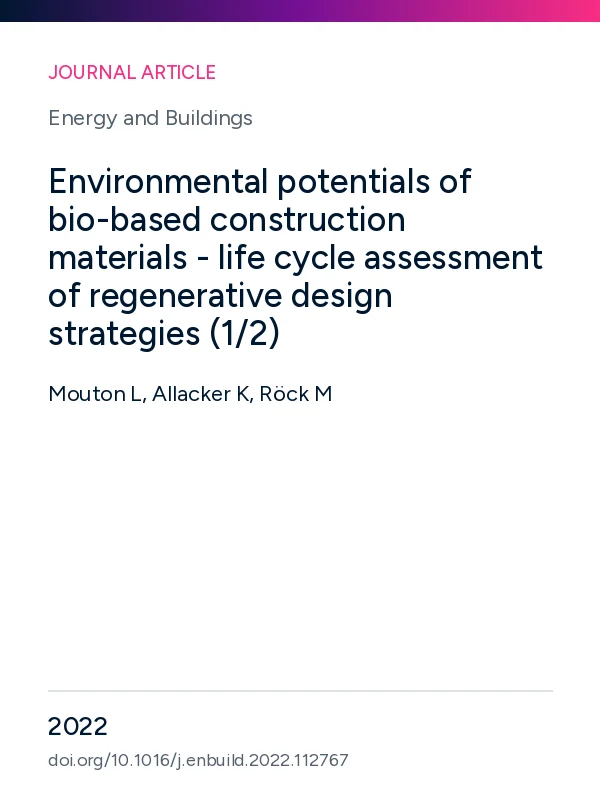
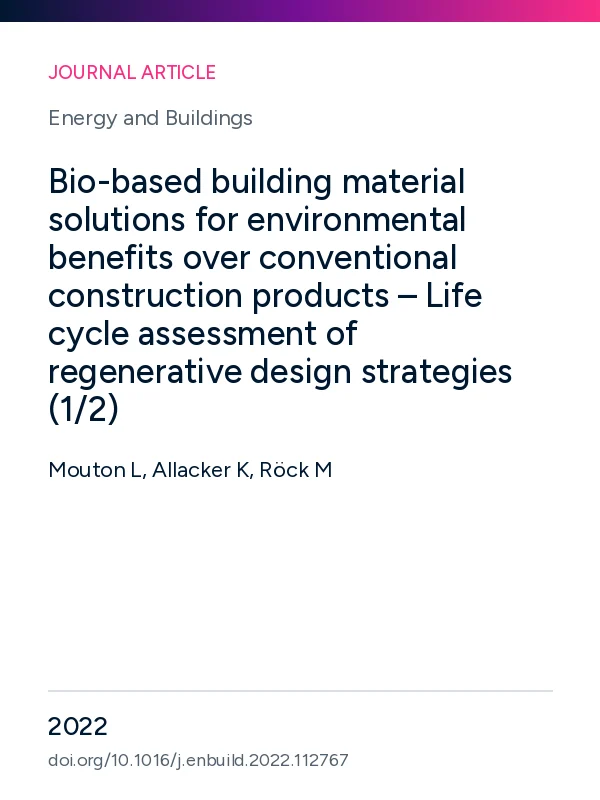
F1, F2, W5 and the publication projects
Four things from the 31 October order and the packs that came with it.

F1, the homepage evidence band. Four figures from two papers become six,
one per perspective, from a single building up to the world's stock. They
live in `_data/facts.yml` rather than in `index.md`, so the band and the
checker read one source and cannot disagree, and `docs-check.py` now fails a
fact whose `publication` slug has no file behind it - tested by breaking one
on purpose and repairing it.

The grid is three columns on a laptop and two on a phone. The order says "1
under 30rem" but also asks for 2 x 3 at 390px, and 390px is under 30rem; the
acceptance test won, so the single column starts at 22rem. Measured at 1280,
900, 390, 360 and 320px: 3 x 2, 2 x 3, 2 x 3, 2 x 3, 1 x 6, no horizontal
overflow at any of them, and all seven source links present.

The value and the sentence share one paragraph, because several sentences
continue the figure rather than following it: "50-107 million homes could be
created within Europe's existing buildings" reads as one sentence and would
break in half across two boxes.

F2, the two Mouton papers now carry their published titles, with the new
tiles from the pack. Slugs and URLs unchanged.

W5, the review line is gone from the Approach page. H27: RISE does not sell
review work. The line is not in the new `drafts/expertise.yml` either, so
nothing on the built site offers it once W2 lands.
[…]

Changed region(s): [[0.06, 0.1875, 0.9, 0.5312], [0.24, 0.5625, 0.57, 0.5938], [0.09, 0.5625, 0.21, 0.5938]]

diff --git a/assets/css/style.css b/assets/css/style.css
@@ -2409,39 +2409,48 @@ table.listing td.t-partner .t-logo,
 
 /* ---------- the evidence band ----------
 
-   Four published figures. The number comes first and large, because the
-   figure is the point and the sentence explains it; the source sits under
-   both, as a link to the paper on this site.
+   Six facts, one per perspective, from a single building up to the whole
+   world's stock. Three columns from 64rem, two below that, one under 30rem,
+   so the set reads 3 x 2 on a laptop and 2 x 3 on a phone.
 
-   Two by two rather than four across: these are sentences, not stat tiles,
-   and four narrow columns would break each one over five or six lines. */
-.figures {
+   The value and the sentence share one paragraph rather than sitting in two
+   boxes, because several sentences continue the value and do not start a new
+   one: "50-107 million homes could be created within Europe's existing
+   buildings". Splitting them would break the sentence in half. */
+.facts {
   list-style: none; padding: 0; margin: 1.8rem 0 1.4rem;
-  display: grid; gap: 1.8rem 2.4rem;
-  grid-template-columns: repeat(2, 1fr);
+  display: grid; gap: 2rem 2.4rem;
+  grid-template-columns: repeat(3, 1fr);
 }
-@media (max-width: 46rem) { .figures { grid-template-columns: 1fr; gap: 1.6rem; } }
-.figures li { margin: 0; }
-.fig-val {
-  margin: 0 0 .3rem;
-  font-family: var(--font-display);
-  font-size: clamp(1.6rem, 3vw, 2.1rem); font-weight: 500;
-  line-height: 1.05; letter-spacing: -.01em;
+@media (max-width: 64rem) { .facts { grid-template-columns: repeat(2, 1fr); gap: 1.8rem 2rem; } }
+/* The order says "1 under 30rem" but also asks for 2 x 3 at 390px, and 390px
+   is under 30rem. The acceptance test wins, so the single column starts at
+   22rem instead: two columns hold down to 360px, one below that. */
+@media (max-width: 22rem) { .facts { grid-template-columns: 1fr; gap: 1.6rem; } }
+@media (max-width: 46rem) { .facts { gap: 1.5rem 1.3rem; } }
+.facts li { margin: 0; min-width: 0; }
+
+.fact-perspective {
+  margin: 0 0 .45rem;
+  font-size: .72rem; font-weight: 600;
+  letter-spacing: .09em; text-transform: uppercase;
   color: var(--accent);
-  /* Deliberately NOT tabular-nums. These are four headline figures of
-     different lengths, not a column of digits that has to line up, and
-     Circular's tabular figures are wide enough to space the whole line out:
-     measured at 296px against 261px for the same string. Tabular figures are
-     for tables. */
 }
-.fig-val sub { font-size: .62em; }
-.fig-say { margin: 0 0 .45rem; }
-/* Scoped to `.figures`, because `.fig-src` is already taken: figure.html uses
-   it for the source line inside a project-page caption. Unscoped, these three
-   rules would reach back and flatten that one's margin-top and resize it. */
-.figures .fig-src { margin: 0; font-size: .85rem; }
-.figures .fig-src a { color: var(--ink-soft); }
-.figures .fig-src a:hover { color: var(--accent); }
+.fact-body { margin: 0 0 .5rem; }
+.fact-val {
+  font-family: var(--font-display);
+  font-size: clamp(1.45rem, 2.4vw, 1.85rem); font-weight: 500;
+  line-height: 1.15; letter-spacing: -.01em;
+  color: var(--ink);
+  /* Deliberately NOT tabular-nums. These are headline figures of different
+     lengths, not a column of digits that has to line up, and Circular's
+     tabular figures are wide enough to space the whole line out: measured at
+     296px against 261px for the same string. Tabular figures are for tables. */
+  margin-right: .3rem;
+}
+.fact-src { margin: 0; font-size: .85rem; line-height: 1.45; }
+.fact-src a { color: var(--ink-soft); }
+.fact-src a:hover { color: var(--accent); }
 
 /* Four pillars, not three. `.cols` is a three-column grid, which would leave
    the fourth alone on a second row. */

diff --git a/docs-check.py b/docs-check.py
@@ -169,6 +169,31 @@ for e in eng:
           "name two projects that started this way; if there are not two, the "
           "card may be describing something RISE does not actually do.")
 
+# The six homepage facts (F1). Each figure on that band is a claim about the
+# world with a paper behind it, and the whole point of the band is that a
+# visitor can follow any number to the work it came from. A `publication` slug
+# with no file behind it would render as a dead link under a headline figure,
+# which is worse than no figure at all - so it fails rather than warns.
+facts = yaml.safe_load((SITE / "_data/facts.yml").read_text()) or []
+_f_seen = set()
+for f in facts:
+    where = f"fact '{f.get('perspective', '?')}'"
+    for key in ("perspective", "value", "say", "sources"):
+        if not f.get(key):
+            P("data", "_data/facts.yml", f"{where} has no `{key}`")
+    if f.get("perspective") in _f_seen:
+        P("data", "_data/facts.yml", f"duplicate perspective '{f['perspective']}'")
+    _f_seen.add(f.get("perspective"))
+    for s in f.get("sources") or []:
+        if not s.get("label"):
+            P("data", "_data/facts.yml", f"{where} has a source with no `label`")
+        slug = s.get("publication")
+        if not slug:
+            P("data", "_data/facts.yml", f"{where} has a source with no `publication`")
+        elif slug not in coll["publications"]:
+            P("xref", "_data/facts.yml",
+              f"{where} cites '{slug}', which has no file in _publications/")
+
 tst = yaml.safe_load((SITE / "_data/testimonials.yml").read_text()) or []
 seen_ids = set()
 for t in tst:

diff --git a/index.md b/index.md
@@ -48,46 +48,37 @@ permalink: /
   works on; it now opens on what the work found, with the figure, its unit
   and its source in the first line of each.
 
-  Every figure is from a published, peer-reviewed paper that is on this site,
-  so each links to its own entry rather than to a claim nobody can check.
-  Nothing unpublished goes in this band. If a number here cannot be followed
-  to a paper, it does not belong.
+  Six perspectives, from one building to the whole world's stock, in
+  `_data/facts.yml` rather than written out here, so the band and the
+  checker read the same source. Every figure is published, with a DOI, and
+  on this site, so each links to its own entry rather than to a claim nobody
+  can check; a source that is not peer-reviewed says so in its label.
+  docs-check.py fails a fact whose `publication` slug has no file behind it.
+
+  Some sentences continue the value rather than starting a new one ("could
+  be created within Europe's existing buildings"), which is why the value
+  and the sentence sit in one flow and not in two boxes.
 {%- endcomment -%}
 <section class="band" id="evidence">
   <div class="wrap">
     <h2>What the evidence says</h2>
-    <p class="band-lede">Efficiency alone will not get Europe's buildings
-    within their limits. Our research shows why, and what does.</p>
+    <p class="band-lede">From single buildings to the regenerative evolution
+    of the world's building stock: our research shows what works at scale.</p>
 
-    <ul class="figures">
+    <ul class="facts">
+      {%- for f in site.data.facts %}
       <li>
-        <p class="fig-val">8.5 billion tonnes CO<sub>2</sub>e</p>
-        <p class="fig-say">what EU buildings and construction must avoid
-        between 2020 and 2050 to meet EU climate targets. That is about ten
-        years of 2020 emissions.</p>
-        <p class="fig-src"><a href="{{ '/publications/alaux-2026-context-specific-life/' | relative_url }}">Alaux et al., 2026, Nature Communications</a></p>
+        <p class="fact-perspective">{{ f.perspective }}</p>
+        <p class="fact-body"><span class="fact-val">{{ f.value }}</span>
+        {{ f.say }}</p>
+        <p class="fact-src">
+          {%- for s in f.sources -%}
+          {%- unless forloop.first %}; {% endunless -%}
+          <a href="{{ '/publications/' | append: s.publication | append: '/' | relative_url }}">{{ s.label }}</a>
+          {%- endfor -%}
+        </p>
       </li>
-      <li>
-        <p class="fig-val">32%</p>
-        <p class="fig-say">the share of that reduction which efficiency and
-        cleaner materials alone could not deliver within national capacities,
-        2.72 billion tonnes short.</p>
-        <p class="fig-src"><a href="{{ '/publications/alaux-2026-context-specific-life/' | relative_url }}">Alaux et al., 2026</a></p>
-      </li>
-      <li>
-        <p class="fig-val">2.2 billion tonnes CO<sub>2</sub>e</p>
-        <p class="fig-say">the additional reduction within national capacities
-        from using less floor space per person, circular construction and
-        bio-based materials.</p>
-        <p class="fig-src"><a href="{{ '/publications/alaux-2026-context-specific-life/' | relative_url }}">Alaux et al., 2026</a></p>
-      </li>
-      <li>
-        <p class="fig-val">45&ndash;50%</p>
-        <p class="fig-say">the share of life cycle emissions that are embodied
-        in highly energy-efficient buildings, from more than 650 building life
-        cycle assessments.</p>
-        <p class="fig-src"><a href="{{ '/publications/roeck-2020-embodied-ghg-emissions/' | relative_url }}">Röck et al., 2020, Applied Energy</a></p>
-      </li>
+      {%- endfor %}
     </ul>
 
     <p class="more"><a href="{{ '/publications/' | relative_url }}">Read the research →</a></p>

diff --git a/docs/03-editing-the-site.md b/docs/03-editing-the-site.md
@@ -600,6 +600,44 @@ haven't is both misleading and the kind of thing people object to.
 
 ---
 
+## 11c. The six facts on the home page
+
+The "What the evidence says" band reads `_data/facts.yml`. Nothing on that
+band is written into `index.md`, so the page and `docs-check.py` read the same
+source and cannot disagree.
+
+```yaml
+- perspective: "Europe"            # the small label above the figure
+  value: "8.5 billion tonnes CO₂e" # the large figure
+  say: >-                          # what it means, one or two sentences
+    What EU buildings and construction must avoid from 2020 to 2050 …
+  sources:                         # one or more
+    - label: "Alaux et al., 2026, Nature Communications"
+      publication: alaux-2026-context-specific-life
+```
+
+Three rules, and the checker enforces the third:
+
+1. **Every figure is published, has a DOI, and is on this site.** The
+   `publication` slug is a file in `_publications/`, and the band builds the
+   link from it. A number nobody can follow to a paper does not belong here.
+2. **A source that is not peer-reviewed says so in its label**, as the VELUX
+   green paper does: "Toth et al., 2026, green paper (not peer-reviewed)".
+3. **A slug with no file behind it fails the check.** It would otherwise
+   render as a dead link under a headline figure, which is worse than showing
+   no figure at all.
+
+Several of the sentences continue the figure rather than starting after it -
+"50-107 million homes *could be created within Europe's existing buildings*" -
+which is why the figure and the sentence are one paragraph in the markup and
+not two boxes. Write `say` to follow on from `value` or to stand alone, and it
+will read correctly either way.
+
+A fact with two sources lists both, joined with a semicolon. Six is what the
+grid is built for: three columns on a laptop, two on a phone.
+
+---
+
 ## 11a. The "Page in progress" note
 
 The magenta pill in the bottom corner, next to the theme toggle, is switched

diff --git a/_publications/mouton-2022-low-tech-passive.md b/_publications/mouton-2022-low-tech-passive.md
@@ -1,5 +1,5 @@
 ---
-title: "Low-tech passive building concepts to meet climate targets - life cycle assessment of regenerative design strategies (2/2)"
+title: "Low-tech passive solar design concepts and bio-based material solutions for reducing life cycle GHG emissions of buildings – Life cycle assessment of regenerative design strategies (2/2)"
 kind: article
 authors: "Mouton L, Trigaux D, Allacker K, Röck M"
 year: 2022

diff --git a/approach.md b/approach.md
@@ -176,8 +176,6 @@ position.</p>
   allow.</li>
   <li><strong>We state our assumptions.</strong> Allocation rules, system
   boundaries and uncertainty ranges come with every result.</li>
-  <li><strong>We review only where we have no stake</strong> in the outcome,
-  and say so in writing.</li>
   <li><strong>We build models to be repeated</strong> by national teams, not
   bought from us.</li>
 </ul>

diff --git a/_publications/mouton-2022-environmental-potentials-bio.md b/_publications/mouton-2022-environmental-potentials-bio.md
@@ -1,5 +1,5 @@
 ---
-title: "Environmental potentials of bio-based construction materials - life cycle assessment of regenerative design strategies (1/2)"
+title: "Bio-based building material solutions for environmental benefits over conventional construction products – Life cycle assessment of regenerative design strategies (1/2)"
 kind: article
 authors: "Mouton L, Allacker K, Röck M"
 year: 2022

diff --git a/_publications/roeck-2018-lca-bim-visualization.md b/_publications/roeck-2018-lca-bim-visualization.md
@@ -7,6 +7,8 @@ journal: "Building and Environment"
 doi: "10.1016/j.buildenv.2018.05.006"
 people:
   - martin-roeck
+projects:
+  - iea-ebc-annex-72
 # projects:                      # one or more, by filename
 #   - project-filename
 thumbnail: /assets/img/pubs/roeck-2018-lca-bim-visualization.webp
